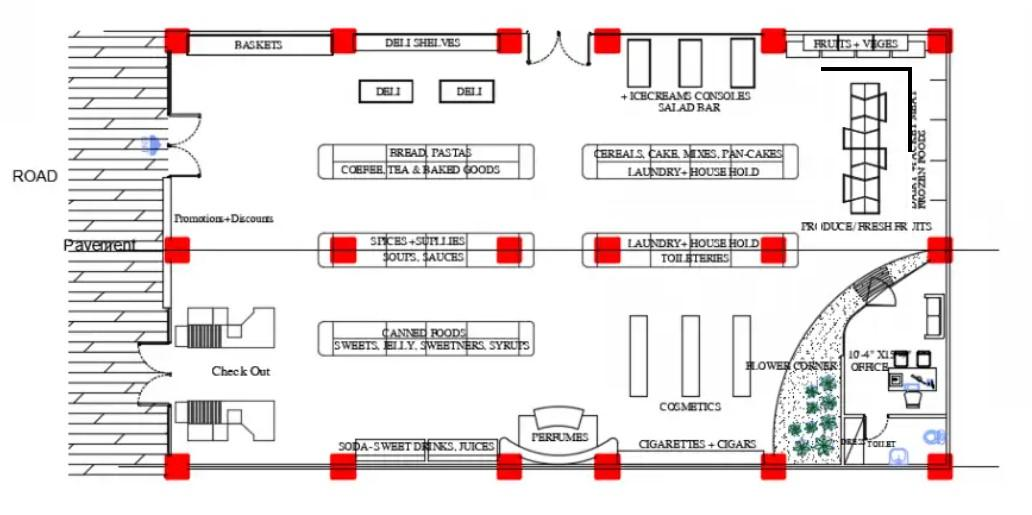
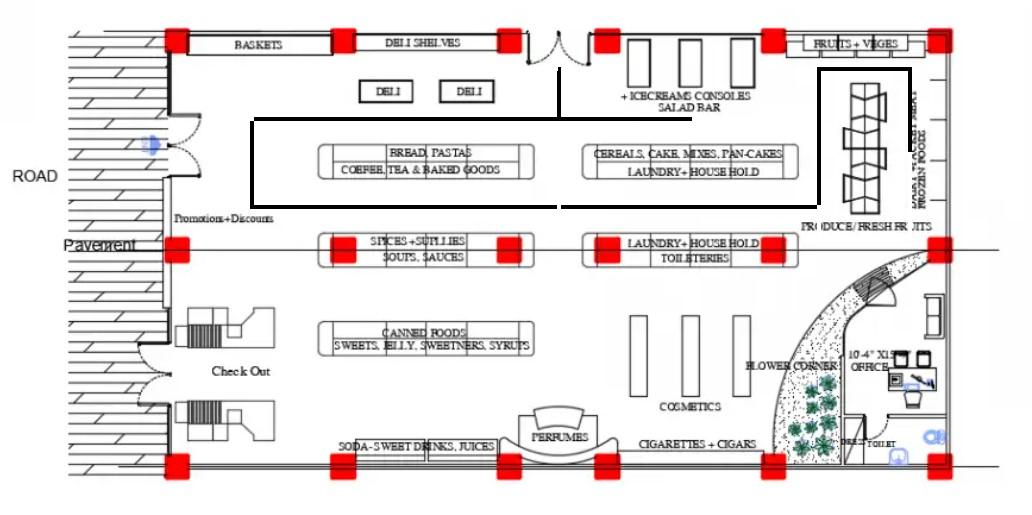
fixed image editing

Changed region(s): [[0.2171, 0.1243, 0.8062, 0.4039], [0.2481, 0.1553, 0.6822, 0.2485]]

diff --git a/tester/src/App.java b/tester/src/App.java
@@ -165,6 +165,7 @@ public class App {
     public static void pathtobetaken(String[] groce) {
        
         grocNodes = getnodes(groce);
+        Node last = new Node("");
         Dijkstra dijkstra = new Dijkstra();
         dijkstra.calculateShortestPath(S);
         Node shortest=helper(S,grocNodes);
@@ -180,8 +181,12 @@ public class App {
             for(int j = 0; j < shortest.getShortestPath().size();j++){
                 path.add(shortest.getShortestPath().get(j));
             }
+            if(grocNodes.size()==1){
+                last = grocNodes.get(0);
+            }
+        
         }
-
+        path.add(last);
         // path should be ordered by first you will go to then second then third and so on
     }
 
@@ -217,24 +222,6 @@ public class App {
         for (Node node : path) {
             System.out.println(node.getName());
         }
-        // ArrayList<Node> groc = new ArrayList<>(3);
-        // groc.add(nodeC);
-        // groc.add(nodeD);
-        // Node result = helper(nodeA, groc);
-        // System.out.println(result.getName());
-//START OF FUNCTION ---------------------------------------------------------------------
-// int smolnigga = 999999;
-// String whichnigga = "";
-// for(int i = 0;i<niggas.size();i++){
-//     if(smolnigga > niggas.get(i).getDistance()){
-//         smolnigga = niggas.get(i).getDistance();
-//         whichnigga = niggas.get(i).getName();
-//     }
-// }
-// System.out.println(whichnigga);
-// System.out.println(smolnigga);  
-//END OF FUNCTION -------------------------------------------------------------------------
-
 
 BufferedImage img = ImageIO.read(new File("../DijkstraGomla/tester/src/imageinput.jpg"));
 var a = img.createGraphics();//Tb↔TeaSpices
@@ -302,8 +289,9 @@ var u = img.createGraphics();//Le↔Veggies
 u.fillRect(817, 205, 4, 32);
 
 
-List<Node> smollestPath = destination.getShortestPath();
-smollestPath = Stream.concat(smollestPath.stream(), Stream.of(destination)).toList();
+// List<Node> smollestPath = destination.getShortestPath();
+List<Node> smollestPath = path;
+// smollestPath = Stream.concat(smollestPath.stream(), Stream.of(destination)).toList();
 for (int ic = 1; ic < smollestPath.size(); ic++) {
     if(smollestPath.get(ic).getName() == "BC"){
         switch (smollestPath.get(ic-1).getName()) {
